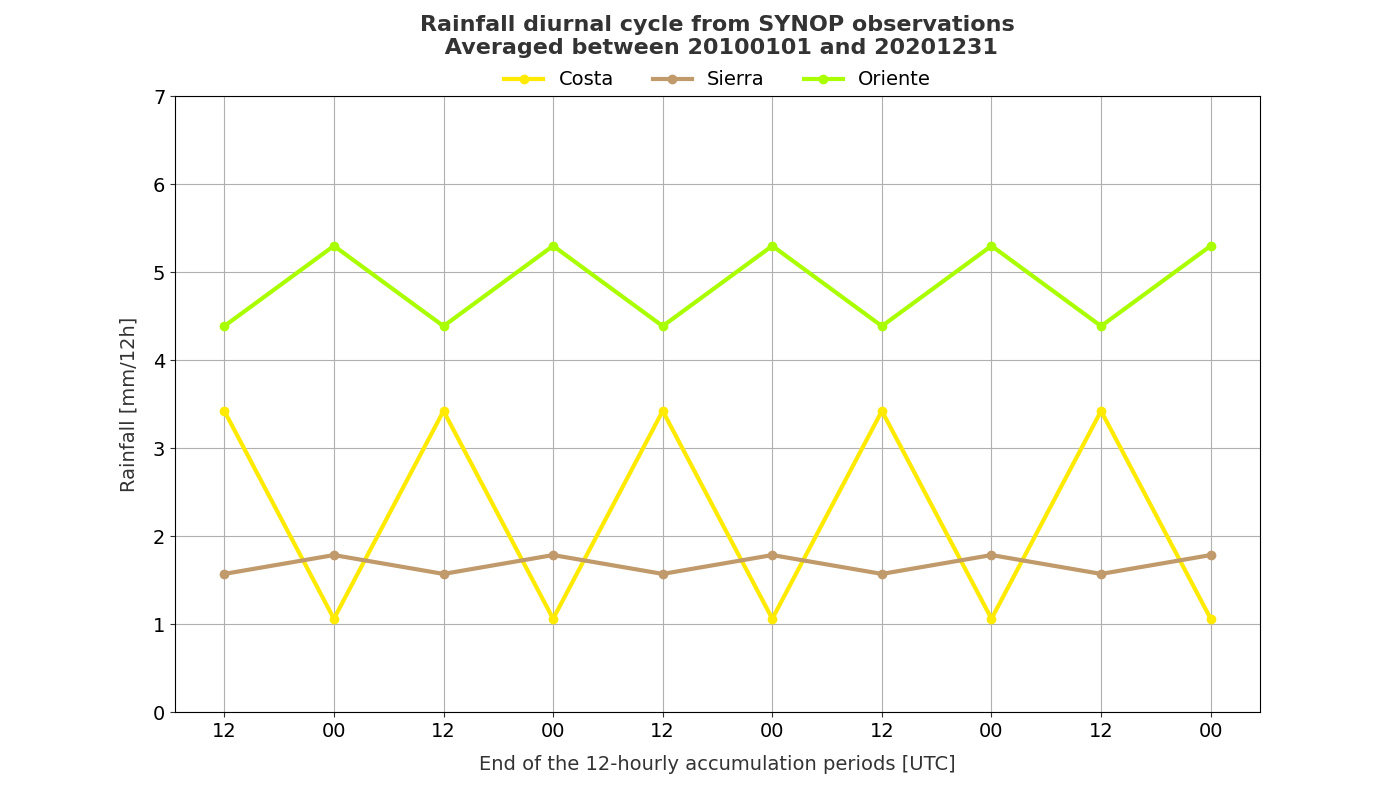
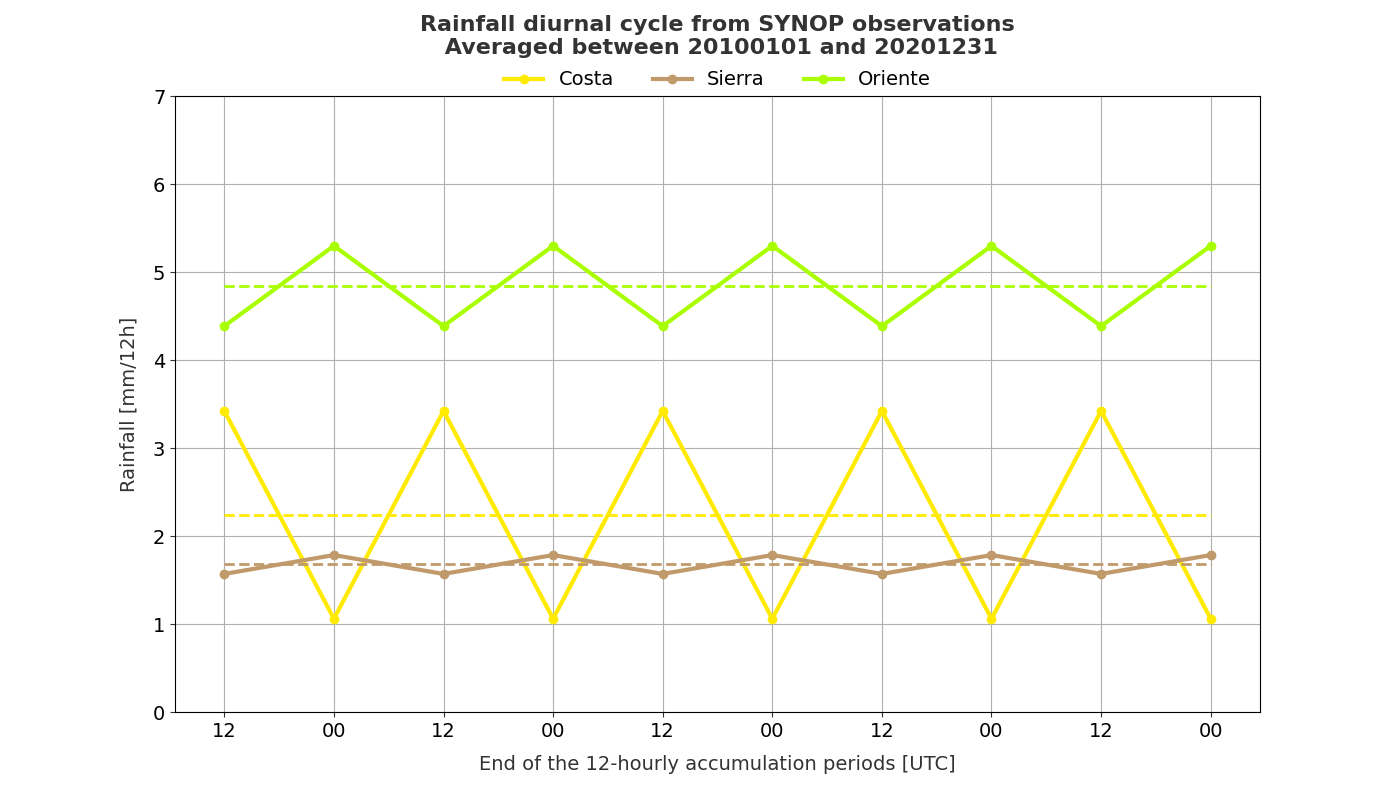
Added the trends for the observed rainfall diurnal cycle.

diff --git a/Scripts/Processed/08_Plot_RainObs_Diurnal_Cycle.py b/Scripts/Processed/08_Plot_RainObs_Diurnal_Cycle.py
@@ -68,15 +68,22 @@ for ind_Region in range(len(RegionName_list)):
             # Computing the avearge rainfall for a specific accumulation period
             rain_diurnal_cycle[ind_AccPerF] = np.average(obs_vals)
 
+      # Create the average rainfall
+      av_rain_diurnal_cycle = np.average(rain_diurnal_cycle)
+
+      # Create the variable to plot
+      AccPerF_multiple = np.hstack([AccPerF_list] * 5)
+      rain_diurnal_cycle_multiple = np.hstack([rain_diurnal_cycle] * 5)
+      av_rain_diurnal_cycle_multiple = np.hstack([av_rain_diurnal_cycle] * len(rain_diurnal_cycle) * 5)
+      
       # Plotting the distribution of the rainfall  totals
       xtick_labels = []
       for rep in range(5):
             for AccPerF in AccPerF_list:
                   xtick_labels.append(f"{AccPerF:02d}")
-      AccPerF_multiple = np.hstack([AccPerF_list] * 5)
-      rain_diurnal_cycle_multiple = np.hstack([rain_diurnal_cycle] * 5)
       x_axis = np.arange(len(rain_diurnal_cycle_multiple))
       ax.plot(x_axis, rain_diurnal_cycle_multiple, "o-", color=RegionColour, linewidth=3, label=RegionName)
+      ax.plot(x_axis, av_rain_diurnal_cycle_multiple, "--", color=RegionColour, linewidth=2)
       ax.set_title("Rainfall diurnal cycle from SYNOP observations\n Averaged between " + DateS.strftime("%Y%m%d") + " and " + DateF.strftime("%Y%m%d"),  fontsize=16, pad=30, color="#333333", weight="bold")
       ax.set_xlabel("End of the " + str(Acc) + "-hourly accumulation periods [UTC]", fontsize=14, labelpad=10, color="#333333")
       ax.set_ylabel("Rainfall [mm/" + str(Acc) + "h]", fontsize=14, labelpad=10, color="#333333")
